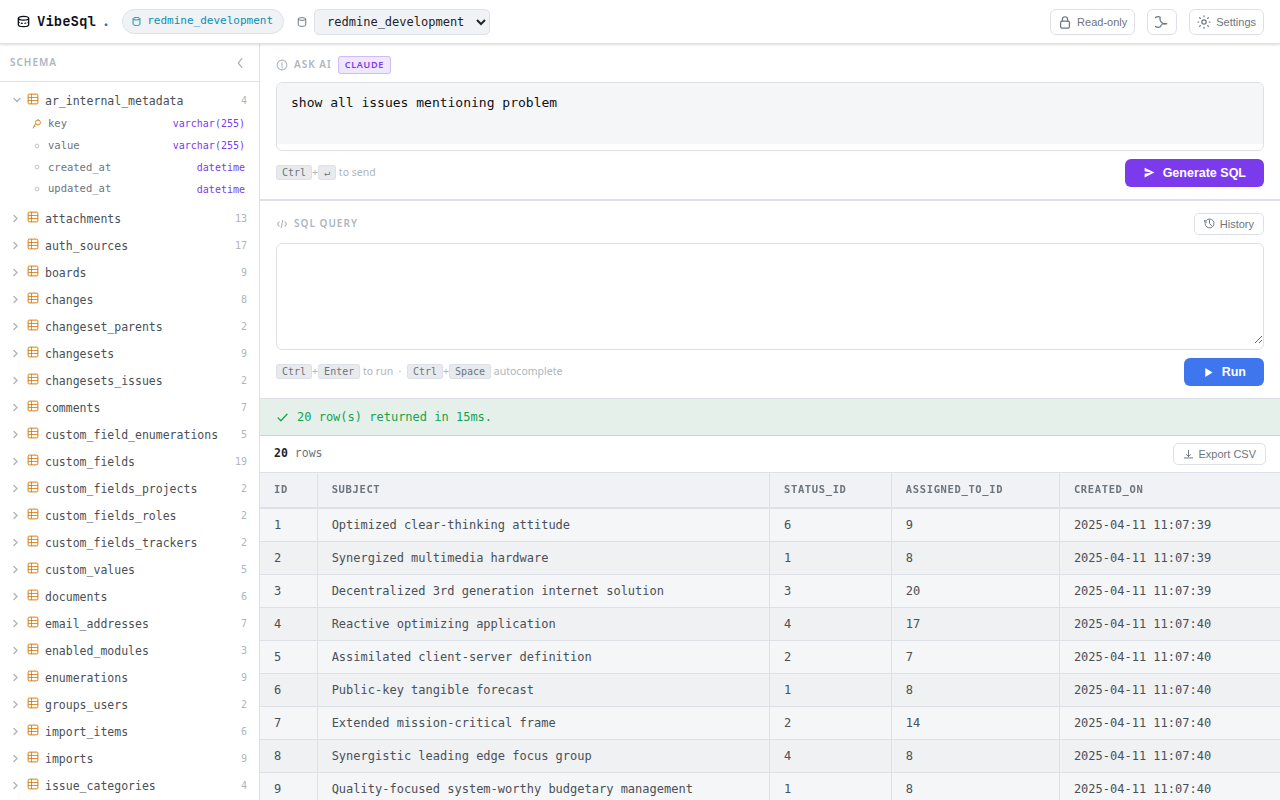
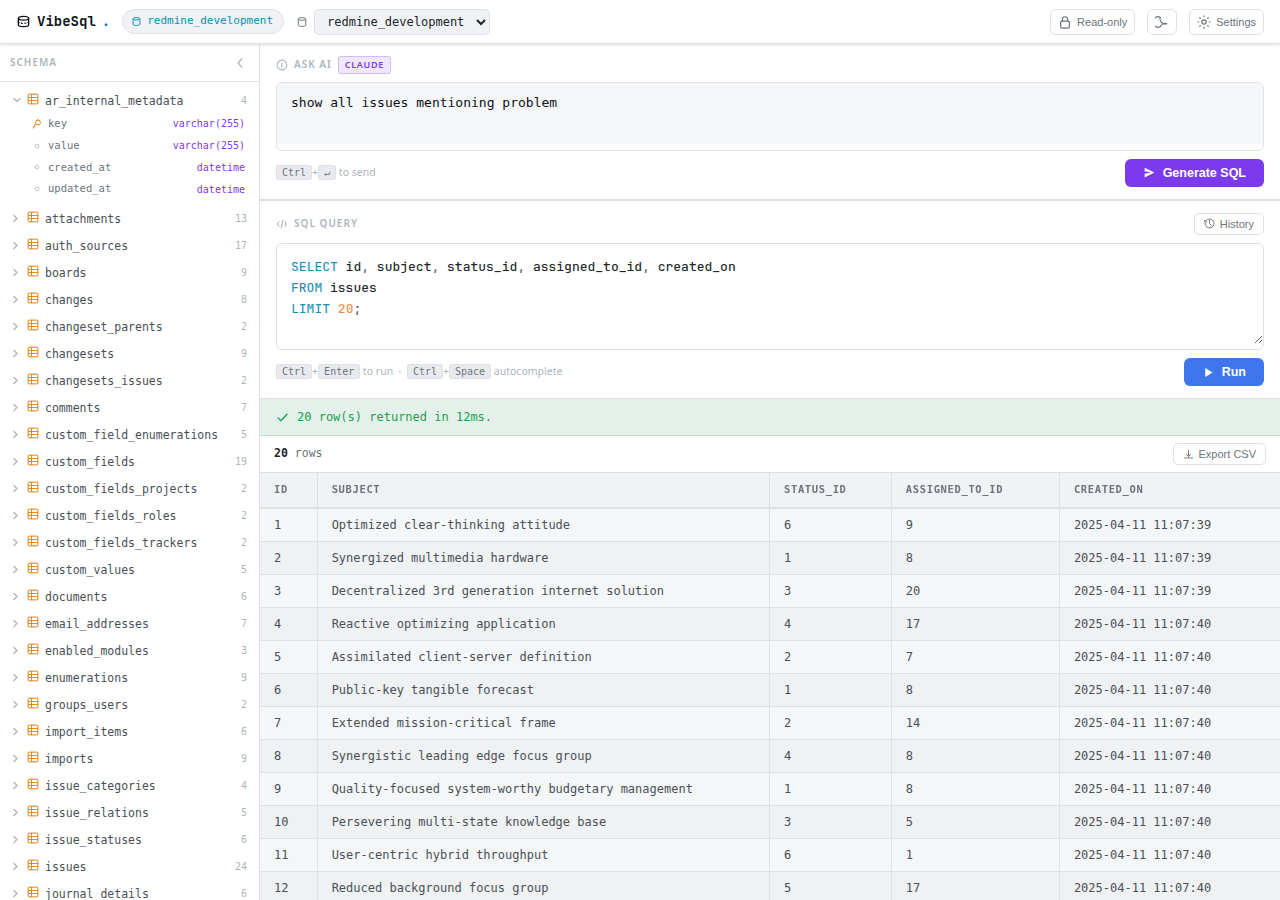
Add syntax highlighting screenshots and README section
Add close-up screenshots of the SQL editor showing PrismJS highlighting
(keywords, operators, numbers) in both light (prism-coy) and dark
(prism-tomorrow) themes. Add Supply-chain safety section to README
explaining why Prism is embedded inline instead of loaded from a CDN.

diff --git a/README.md b/README.md
@@ -4,6 +4,8 @@ A single small PHP file that turns any MySQL database into an AI-powered query i
 
 ![Light mode](screenshots/03-workspace-light.png)
 ![Dark mode](screenshots/04-workspace-dark.png)
+![SQL highlighting light](screenshots/05-highlight-light.png)
+![SQL highlighting dark](screenshots/06-highlight-dark.png)
 
 ## How it works
 
@@ -21,6 +23,7 @@ A single small PHP file that turns any MySQL database into an AI-powered query i
 
 - **Single file** — everything is in `index.php`. No composer, no npm, no build step.
 - **AI SQL generation** — describe what you want, Claude writes the query using your actual schema as context
+- **SQL syntax highlighting** — PrismJS (SQL grammar, light and dark themes) is embedded directly in `index.php` with no CDN calls (see [Supply-chain safety](#supply-chain-safety))
 - **Schema sidebar** — browse all tables and columns at a glance
 - **Dark / light theme** — follows your OS preference automatically; toggle manually at any time
 - **Secure credential storage** — host and user saved in `localStorage`; password and API key in `sessionStorage` only (cleared when the tab closes)
@@ -60,6 +63,24 @@ Then open `http://localhost:8080` in your browser. On first load the settings mo
 - All API requests carry a session CSRF token — the PHP endpoint rejects anything without a valid token
 - `mysqli::query()` runs a single statement only — stacked queries (`;DROP TABLE`) are not possible
 - Dangerous SQL patterns (`INTO OUTFILE`, `LOAD_FILE`, `sys_exec`, etc.) are blocked before execution
+
+## Supply-chain safety
+
+VibeSql loads **zero external resources at runtime**. No CDN, no third-party scripts, no remote fonts.
+
+The SQL syntax highlighter uses [PrismJS](https://prismjs.com/) — but instead of loading it from a CDN like `cdn.jsdelivr.net` or `cdnjs.cloudflare.com`, the minified source of `prism.min.js`, `prism-sql.min.js`, `prism-coy.css` (light theme), and `prism-tomorrow.css` (dark theme) is pasted directly inside `index.php`.
+
+**Why this matters:** a CDN-hosted script can be silently replaced or tampered with at any time. If you drop VibeSql on a server that handles real credentials, a compromised CDN could inject code that exfiltrates your database password or API key. By embedding all JavaScript and CSS verbatim, the only thing that runs in the browser is exactly what you can read in the file you deployed.
+
+To verify or update the embedded Prism build:
+
+```bash
+# Download fresh copies and diff against what is in index.php
+curl -s https://cdnjs.cloudflare.com/ajax/libs/prism/1.29.0/prism.min.js > /tmp/prism.min.js
+curl -s https://cdnjs.cloudflare.com/ajax/libs/prism/1.29.0/components/prism-sql.min.js > /tmp/prism-sql.min.js
+```
+
+Then compare the content of those files against the `<script>` blocks in `index.php`.
 
 ## Reporting security issues
 
